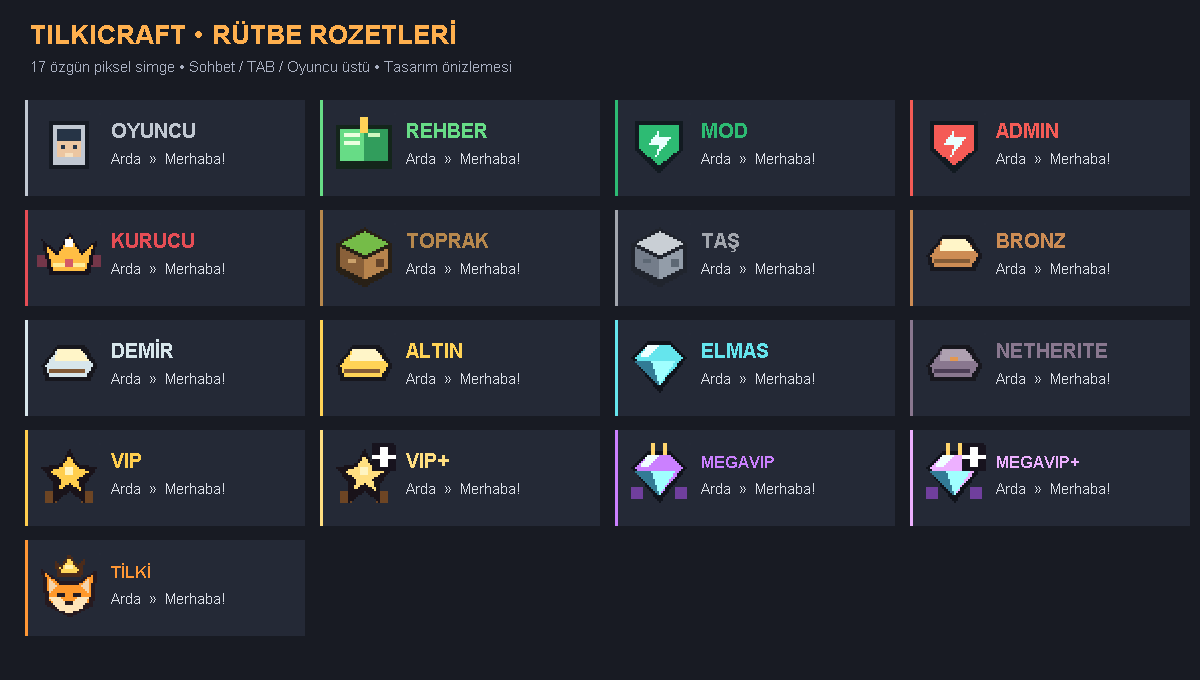
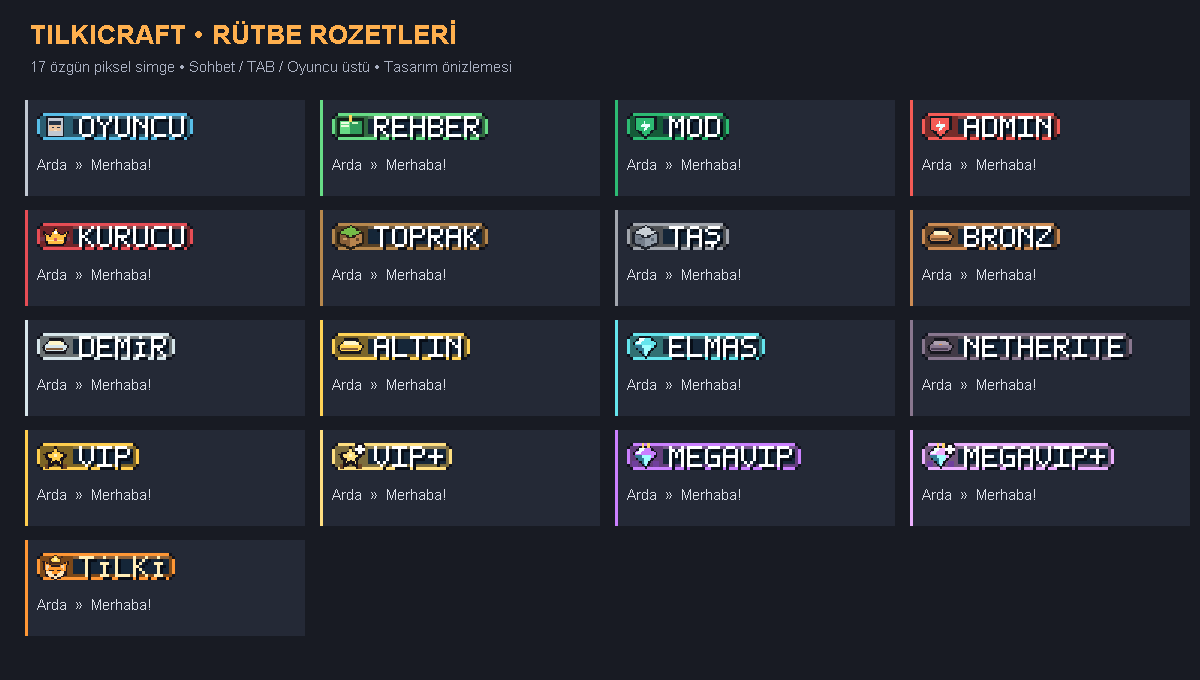
Render complete text badges as one glyph and expose HUD rank API

diff --git a/tools/BuildTagsPack.java b/tools/BuildTagsPack.java
@@ -63,12 +63,64 @@ class BuildTagsPack {
         }
         g.dispose();image.setRGB(31,0,0x01ffffff);return image;
     }
+    // Five-by-seven pixel lettering remains legible without depending on system fonts.
+    static final Map<Character,String> LETTERS=Map.ofEntries(
+        Map.entry('A',"01110/10001/10001/11111/10001/10001/10001"),
+        Map.entry('B',"11110/10001/10001/11110/10001/10001/11110"),
+        Map.entry('C',"01111/10000/10000/10000/10000/10000/01111"),
+        Map.entry('D',"11110/10001/10001/10001/10001/10001/11110"),
+        Map.entry('E',"11111/10000/10000/11110/10000/10000/11111"),
+        Map.entry('F',"11111/10000/10000/11110/10000/10000/10000"),
+        Map.entry('G',"01111/10000/10000/10111/10001/10001/01111"),
+        Map.entry('H',"10001/10001/10001/11111/10001/10001/10001"),
+        Map.entry('I',"11111/00100/00100/00100/00100/00100/11111"),
+        Map.entry('İ',"00100/00000/01110/00100/00100/00100/01110"),
+        Map.entry('K',"10001/10010/10100/11000/10100/10010/10001"),
+        Map.entry('L',"10000/10000/10000/10000/10000/10000/11111"),
+        Map.entry('M',"10001/11011/10101/10101/10001/10001/10001"),
+        Map.entry('N',"10001/11001/10101/10011/10001/10001/10001"),
+        Map.entry('O',"01110/10001/10001/10001/10001/10001/01110"),
+        Map.entry('P',"11110/10001/10001/11110/10000/10000/10000"),
+        Map.entry('R',"11110/10001/10001/11110/10100/10010/10001"),
+        Map.entry('S',"01111/10000/10000/01110/00001/00001/11110"),
+        Map.entry('Ş',"01111/10000/01110/00001/00001/11110/00100"),
+        Map.entry('T',"11111/00100/00100/00100/00100/00100/00100"),
+        Map.entry('U',"10001/10001/10001/10001/10001/10001/01110"),
+        Map.entry('V',"10001/10001/10001/10001/10001/01010/00100"),
+        Map.entry('Y',"10001/10001/01010/00100/00100/00100/00100"),
+        Map.entry('Z',"11111/00001/00010/00100/01000/10000/11111"),
+        Map.entry('+',"00000/00100/00100/11111/00100/00100/00000")
+    );
+    static BufferedImage badge(int index) {
+        int width=16+LABELS[index].length()*6;
+        BufferedImage image=new BufferedImage(width*2,18,BufferedImage.TYPE_INT_ARGB);
+        Graphics2D draw=image.createGraphics(); draw.scale(2,2);
+        int accent=index==0?0x58bee8:COLORS[index];
+        draw.setColor(new Color(0x11131d));draw.fillRect(1,0,width-2,9);draw.fillRect(0,1,width,7);
+        draw.setColor(new Color(accent));draw.fillRect(2,0,width-4,1);draw.fillRect(2,8,width-4,1);draw.fillRect(0,2,1,5);draw.fillRect(width-1,2,1,5);
+        draw.setColor(new Color(accent).darker().darker());draw.fillRect(1,1,width-2,7);
+        draw.setColor(new Color(0x152638));draw.fillRect(12,2,width-14,5);
+        draw.setColor(new Color(255,255,255,35));draw.fillRect(12,1,width-14,1);
+        draw.setRenderingHint(RenderingHints.KEY_INTERPOLATION,RenderingHints.VALUE_INTERPOLATION_NEAREST_NEIGHBOR);
+        draw.drawImage(icon(index),1,0,10,9,null);
+        for(int letter=0;letter<LABELS[index].length();letter++) {
+            char character=LABELS[index].charAt(letter);
+            String pattern=LETTERS.get(character);
+            if(pattern==null) throw new IllegalArgumentException("Missing badge letter: "+character);
+            String[] rows=pattern.split("/");int x=14+letter*6;
+            draw.setColor(new Color(0x080e18));
+            for(int y=0;y<7;y++)for(int column=0;column<5;column++)if(rows[y].charAt(column)=='1')draw.fillRect(x+column+1,y+2,1,1);
+            draw.setColor(index==16?new Color(0xffeeb7):Color.WHITE);
+            for(int y=0;y<7;y++)for(int column=0;column<5;column++)if(rows[y].charAt(column)=='1')draw.fillRect(x+column,y+1,1,1);
+        }
+        draw.dispose();return image;
+    }
     public static void main(String[] args) throws Exception {
         Path root=Path.of("resourcepack");
         Path textures=root.resolve("assets/tilkitags/textures/font");Files.createDirectories(textures);
         List<String> providers=new ArrayList<>();List<BufferedImage> icons=new ArrayList<>();
         for(int i=0;i<IDS.length;i++) {
-            BufferedImage image=icon(i);icons.add(image);ImageIO.write(image,"png",textures.resolve(IDS[i]+".png").toFile());
+            BufferedImage image=badge(i);icons.add(image);ImageIO.write(image,"png",textures.resolve(IDS[i]+".png").toFile());
             providers.add("{\"type\":\"bitmap\",\"file\":\"tilkitags:font/"+IDS[i]+".png\",\"height\":9,\"ascent\":8,\"chars\":[\"\\u"+String.format("%04x",0xeb00+i)+"\"]}");
         }
         write(root,"pack.mcmeta","{\"pack\":{\"pack_format\":46,\"description\":\"TilkiCraft - 17 original rank badges | 1.21.4\"}}\n");
@@ -87,8 +139,8 @@ class BuildTagsPack {
         g.setFont(new Font("SansSerif",Font.PLAIN,15));color(0xaab1c2);g.drawString("17 özgün piksel simge • Sohbet / TAB / Oyuncu üstü • Tasarım önizlemesi",30,72);
         for(int i=0;i<17;i++) {
             int x=25+i%4*295,y=100+i/4*110;rect(0x242936,x,y,280,96);rect(COLORS[i],x,y,3,96);
-            g.drawImage(icons.get(i),x+12,y+13,64,64,null);g.setFont(new Font("SansSerif",Font.BOLD,i>=14?17:20));color(COLORS[i]);g.drawString(LABELS[i],x+86,y+38);
-            g.setFont(new Font("SansSerif",Font.PLAIN,15));color(0xdce0e8);g.drawString("Arda  »  Merhaba!",x+86,y+64);
+            g.drawImage(icons.get(i),x+12,y+13,icons.get(i).getWidth()*3/2,27,null);
+            g.setFont(new Font("SansSerif",Font.PLAIN,15));color(0xdce0e8);g.drawString("Arda  »  Merhaba!",x+12,y+70);
         }
         g.dispose();Files.createDirectories(Path.of("art"));ImageIO.write(preview,"png",Path.of("art/tags-preview.png").toFile());
         System.out.println("Built 17 rank badges. SHA1: "+hash);

diff --git a/src/main/java/com/tilkicraft/tags/TilkiTags.java b/src/main/java/com/tilkicraft/tags/TilkiTags.java
@@ -43,6 +43,11 @@ public final class TilkiTags extends JavaPlugin implements Listener, CommandExec
         for(Player player:Bukkit.getOnlinePlayers()) request(player);
     }
     private void readSettings() {
+        if (getConfig().getString("pack.url","").equals("https://github.com/ardaacala/TilkiTags/releases/download/v1.0.0/TilkiTags-ResourcePack.zip")) {
+            getConfig().set("pack.url","https://github.com/ardaacala/TilkiTags/releases/download/v1.1.0/TilkiTags-ResourcePack.zip");
+            getConfig().set("pack.sha1","b8206877871cd4859f87f55d0e7b23a336f7ca66");
+            saveConfig();
+        }
         List<Rank> candidate=Rank.load(getConfig().getConfigurationSection("ranks"));
         String template=getConfig().getString("chat.format","{tag}{name}&8 » &f{message}");
         if (!template.contains("{message}") || !template.contains("{name}")) throw new IllegalArgumentException("chat.format needs {name} and {message}");
@@ -82,6 +87,12 @@ public final class TilkiTags extends JavaPlugin implements Listener, CommandExec
             }
         }
         return Rank.choose(ranks,memberships,nodes);
+    }
+    /** A single image badge, with a text fallback until this viewer has loaded the pack. */
+    public String getRankBadge(Player subject,Player viewer) {
+        Identity identity=identities.get(subject.getUniqueId());
+        Rank rank=identity==null?resolve(subject):identity.rank();
+        return rank.badge(loaded.contains(viewer.getUniqueId()));
     }
     private void refresh() {
         List<Player> online=new ArrayList<>(Bukkit.getOnlinePlayers());

diff --git a/src/main/java/com/tilkicraft/tags/Rank.java b/src/main/java/com/tilkicraft/tags/Rank.java
@@ -25,8 +25,10 @@ public record Rank(String id, Set<String> groups, int priority, String label, Ch
         return List.copyOf(ranks);
     }
     public String prefix(boolean icons) {
-        String badge=icons?ChatColor.WHITE.toString()+(char)(0xeb00+glyph)+" ":"";
-        return badge+label+ChatColor.RESET+" "+color;
+        return badge(icons)+" "+color;
+    }
+    public String badge(boolean icons) {
+        return (icons?ChatColor.WHITE.toString()+(char)(0xeb00+glyph):label)+ChatColor.RESET;
     }
     public String teamName() { return "tt"+String.format(Locale.ROOT,"%04d",9999-priority)+"_"+glyph; }
     public boolean matches(Set<String> memberships, Set<String> explicitRanks) {

diff --git a/src/test/java/com/tilkicraft/tags/RankTest.java b/src/test/java/com/tilkicraft/tags/RankTest.java
@@ -37,4 +37,10 @@ class RankTest {
         String format=Rank.chatFormat("{tag}{name} » {message}","VIP ","100%Tilki");
         assertEquals("VIP 100%Tilki » test %s",String.format(format,"unused","test %s"));
     }
+    @Test void loadedBadgeIsOneGlyphWithoutADuplicateTextLabel() throws Exception {
+        for(Rank rank:ranks()) {
+            assertEquals(String.valueOf((char)(0xeb00+rank.glyph())),org.bukkit.ChatColor.stripColor(rank.badge(true)));
+            assertEquals(org.bukkit.ChatColor.stripColor(rank.label()),org.bukkit.ChatColor.stripColor(rank.badge(false)));
+        }
+    }
 }

diff --git a/README.md b/README.md
@@ -6,7 +6,7 @@ TilkiCraft için 17 özgün piksel rozet: sohbet, TAB oyuncu listesi ve oyuncunu
 
 ## Kurulum
 
-1. Sunucuyu durdur, `TilkiTags-1.0.0.jar` dosyasını `plugins` klasörüne koy ve yeniden başlat. LuckPerms kurulu olmalı.
+1. Sunucuyu durdur, `TilkiTags-1.1.0.jar` dosyasını `plugins` klasörüne koy ve yeniden başlat. LuckPerms kurulu olmalı.
 2. Yönetici olarak `/tilkitags setup` çalıştır. 17 kozmetik grup hazırlanır. Mevcut grup üyelikleri veya yetkileri silinmez; gruplara yönetici/Essentials/oyun yetkileri eklenmez. Bunları LuckPerms'te ayrıca yönetirsin.
 3. Grup ata: `/lp user Arda parent add vipplus` veya `/lp user Arda parent add tilki`. `parent add` mevcut başka grupları korur. Kaldırmak için `parent remove <grup>` kullan.
 4. Oyuncu rozet paketini kabul eder; ZIP hazır GitHub bağlantısından indirilir. Sunucuya ZIP koymak gerekmez. Paket varsayılan olarak zorunludur.
@@ -71,4 +71,14 @@ Essentials'ın chat işleyişi kaynağı: https://github.com/EssentialsX/Essenti
 
 `mvn package` (Java 21). `java tools/BuildTagsPack.java` font paketini ve `art/tags-preview.png` dosyasını üretir. `powershell -ExecutionPolicy Bypass -File tools/ValidatePack.ps1` paketi kontrol eder.
 
-Rank önceliği, takma ad/format güvenliği, grup eşlemeleri, 17 rozetin team metin sınırı ve paketsiz fallback için 4 test; bitmap/JSON/ZIP/font/SHA1 kontrolleri vardır. Canlı sunucu/istemciyle henüz test edilmedi. Kontrol edilmesi gerekenler: farklı rütbeler; OP'de varsayılan tag; grup değiştirme; iki oyuncunun TAB ve baş üstü görünümü; paket indirirken metin fallback; Essentials mute/local chat/nick; TilkiStatsHUD panelini aç/kapat; giriş ekranı ve sniper scope.
+Rank önceliği, takma ad/format güvenliği, grup eşlemeleri, 17 rozetin team metin sınırı ve paketsiz fallback için 5 test; bitmap/JSON/ZIP/font/SHA1 kontrolleri vardır. Canlı sunucu/istemciyle henüz test edilmedi. Kontrol edilmesi gerekenler: farklı rütbeler; OP'de varsayılan tag; grup değiştirme; iki oyuncunun TAB ve baş üstü görünümü; paket indirirken metin fallback; Essentials mute/local chat/nick; TilkiStatsHUD panelini aç/kapat; giriş ekranı ve sniper scope.
+
+## 1.1.0 — Tek parça yazılı rozetler
+
+Her rozetin simgesi ve rütbe yazısı artık aynı PNG'nin içindedir. Paket yüklendiğinde tag tek font glifi olarak gönderilir; yanına ayrıca label yazılmaz. Paket indirilene kadar eski metin fallback'i korunur. Rozetler 18 px yüksekliğinde, en fazla 140 px genişliğinde dokulardır; ekranda 9 px yüksekliğinde gösterilir.
+
+TilkiStatsHUD 1.0.1 ile aynı rozet sidebar rütbe satırında ve üst şeritte görünür. HUD, `getRankBadge(subject, viewer)` API'sinden veriyi alır; her oyuncunun kendi paket durumunu dikkate alır. Eski HUD JAR'ı yerine yeni sürüm yüklenmelidir. `sidebar.use-tilkitags: false` ile bu bağlantı kapatılabilir. PAPI/Vault rütbesi bu bağlantı açıkken rozetin önüne geçmez.
+
+Güncelleme: sunucuyu durdur, eski TilkiTags ve TilkiStatsHUD JAR'larını kaldırıp yenilerini koy, yeniden başlat ve oyuna yeniden gir. Mevcut gruplar, üyelikler ve ayarlar korunur. Eski resmi tag paketi URL/SHA1 bilgileri otomatik güncellenir; özel hosting kullanıyorsan yeni ZIP/hash bilgilerini sen güncellemelisin. Gruplar zaten varsa setup tekrar gerekmez. Baked rozet içindeki yazı değişecekse BuildTagsPack.java ile doku yeniden üretilmelidir; config label alanı metin fallback'ini değiştirir.
+
+Doğrulama: 5 rank/glyph/format testi, HUD tarafında 4 test (rozet API sözleşmesi dahil), PNG/JSON/font/ZIP/SHA1 kontrolleri. Canlı istemci görünümü henüz doğrulanmadı.
